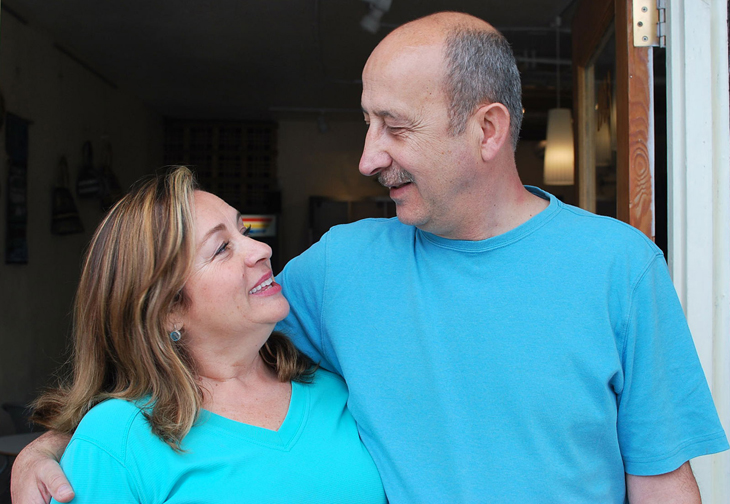
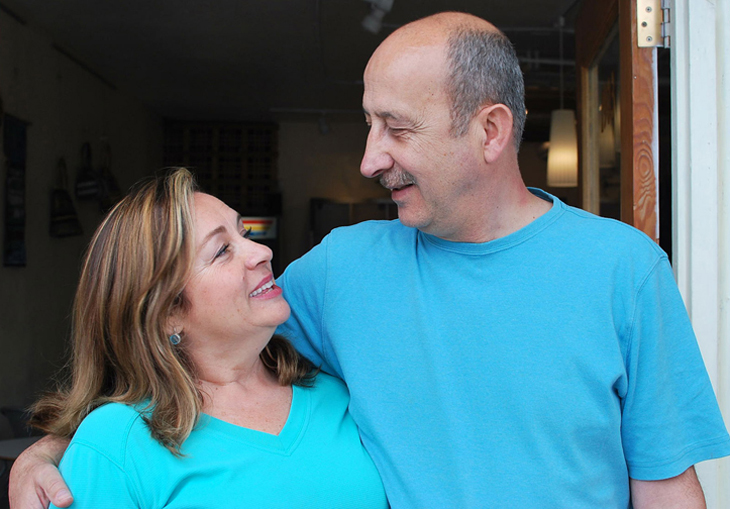
added a hover state to the about page image

diff --git a/index.html b/index.html
@@ -81,7 +81,7 @@
                         <p>Established in 2009, Fainting Goat Gelato is a small family business in the unique Wallingford neighborhood of Seattle. All of our gelato is handcrafted daily in our shop to ensure maximum freshness and quality. Our heart and soul goes into every batch, and we are proud to serve our delicious creations to our customers.</p>
                         
                         <figure>
-                            <img src="img/sevim-yalcin-1.jpg" alt="" />
+                            <img src='img/sevim-yalcin-1.jpg' width='730' height='509' onmouseover="this.src='img/sevim-yalcin-2.jpg';" onmouseout="this.src='img/sevim-yalcin-1.jpg';" />
                         </figure>
                         
                         <p>It has been our dream to own a small shop ever since we moved to Seattle from our hometown of Izmir, Turkey in ’97. With the help and support of our three daughters, we opened up shop in this wonderful neighborhood, where we have been welcomed by our community with open arms.</p>
